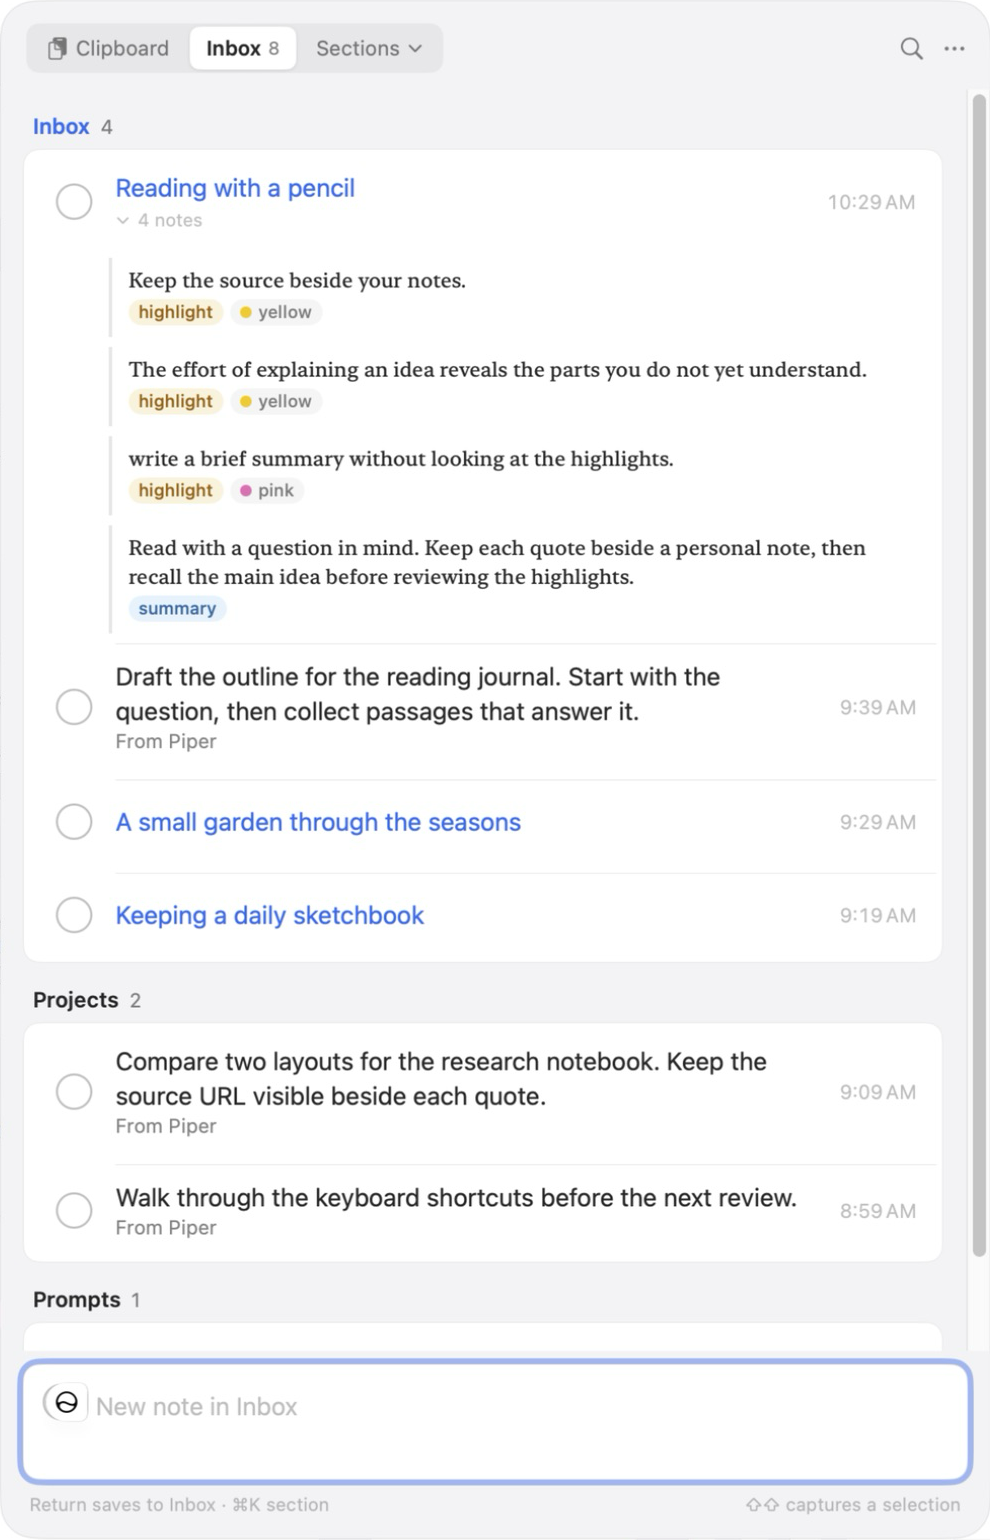
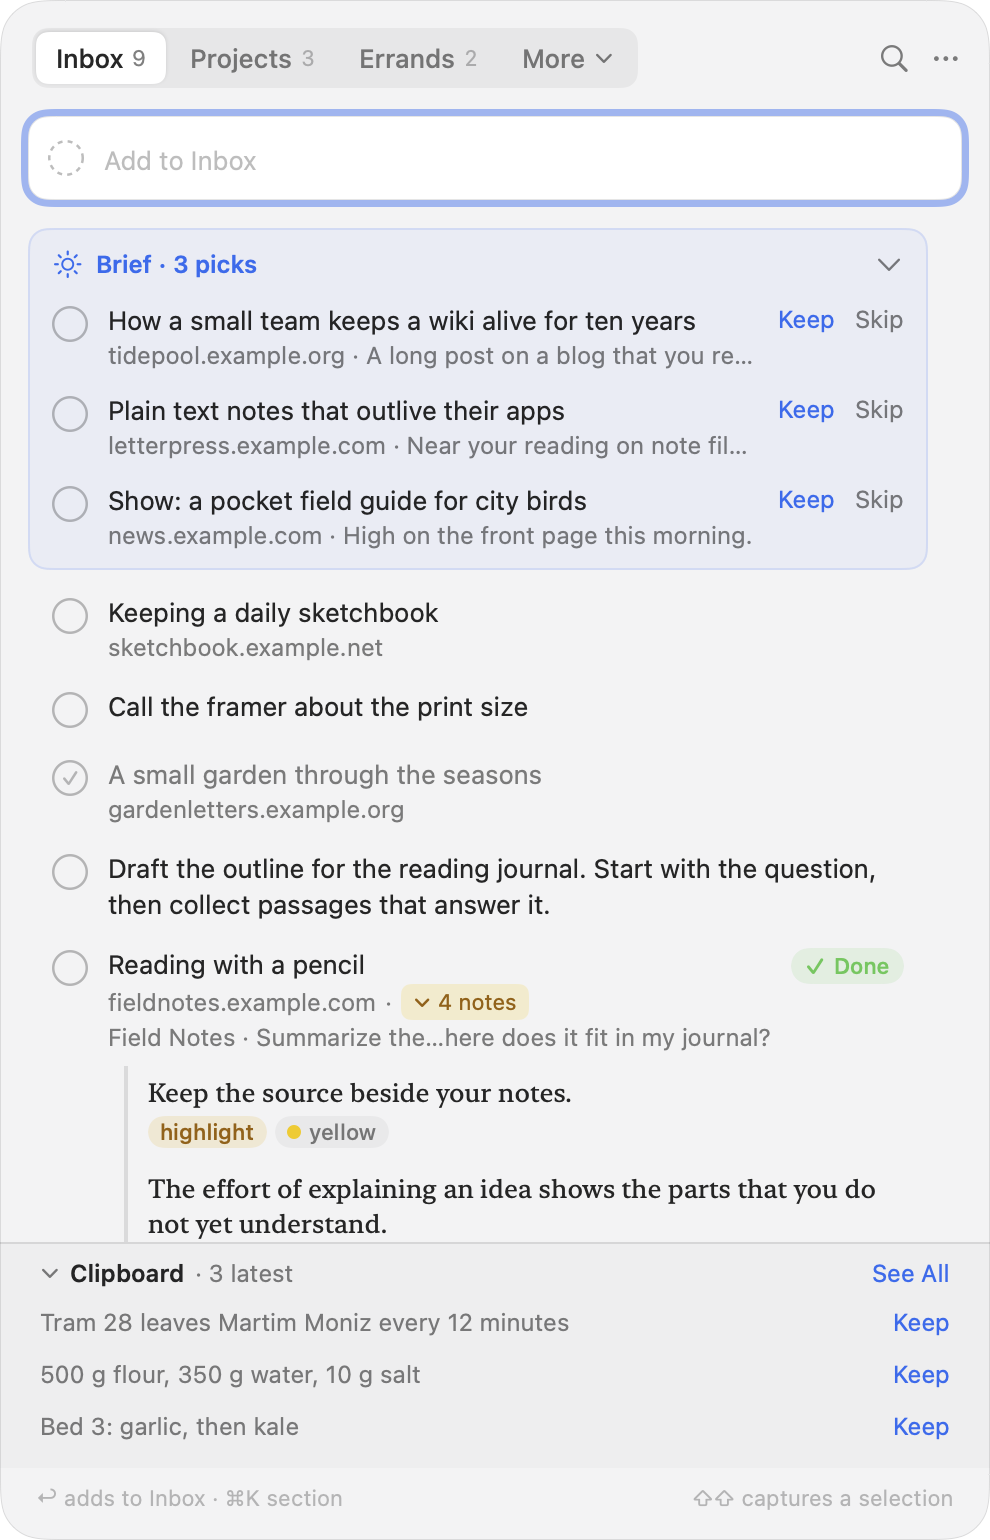
Refresh the README screenshots with fictional data
The screenshots show the Field Notes folder tree with file extensions,
the brief picks and quiet rows of Inbox, the Reader tab with a figure
and highlights, and a session card with the link of the article as
context. The README describes these features.

diff --git a/README.md b/README.md
@@ -48,7 +48,7 @@ The app that you build runs on macOS 14 or later.
 3. Copy text in another app. Click its card in the panel to save it to Inbox.
 4. Press Command-2 to open the main window on `~/Desktop/Wiki`.
 
-To choose another folder, use the folder menu in the Wiki toolbar. To capture a selection with Shift pressed twice, allow Accessibility access first. See [Install Piper](docs/guides/install.md).
+To add another folder, select Add Folder in the + menu of the main window toolbar. To capture a selection with Shift pressed twice, allow Accessibility access first. See [Install Piper](docs/guides/install.md).
 
 ## Windows
 
@@ -63,15 +63,17 @@ The capture panel and the main window take turns on screen. Command-1 shows the 
 
 Both windows use the system font and colors, with one blue accent. Both follow the system appearance.
 
-![The Piper main window with an architecture note about pi-go open in the Architecture folder](docs/images/main-window.png)
+The sidebar of the main window shows Inbox, the clipboard history, and your folders. A folder opens as a tree, and each file shows its extension. Inbox lists your captures, with the picks of the [daily brief](docs/guides/brief.md) at the top.
 
-<img src="docs/images/capture-panel.png" alt="The Piper capture panel with fictional notes, article links, and highlights" width="360">
+![The Piper main window with a reading journal open from a fictional Field Notes folder](docs/images/main-window.png)
+
+<img src="docs/images/capture-panel.png" alt="The Piper capture panel with brief picks, fictional notes, article links, highlights, and clipboard texts" width="360">
 
 ## Highlights And Notes
 
-The Reader tab keeps highlights beside your notes. The Notes tab collects the article summary, highlights, and personal notes.
+The Reader tab shows the text of an article with its images, videos, code blocks, and tables. Highlights show in the text, and your notes show beside them. The Notes tab collects the summary, the highlights, and the notes of the article. Piper opens each site in the tab that you chose last for it.
 
-![Close-up of colored highlights and personal notes beside a fictional article](docs/images/reader-highlights.png)
+![Close-up of the Reader tab with a figure, colored highlights, and a note beside a fictional article](docs/images/reader-highlights.png)
 
 ![Close-up of the Notes tab with a summary, highlighted quotes, and personal notes](docs/images/article-notes.png)
 
@@ -79,11 +81,11 @@ See [Highlight and ask in the Reader tab](docs/guides/browse.md#highlight-and-as
 
 ## Claude Sessions
 
-Piper can send notes to Claude Code in a selected folder. Sessions show tool activity, permission requests, and questions inside the main window. Claude Code requires a separate installation and authentication. Text that you send to Claude leaves local storage for processing through Claude Code.
+Piper talks to Claude Code in a session card beside the open file or capture. The next message takes the file or the link on the screen as context, and `@` adds other files and captures. The card shows tool activity, permission requests, and questions. Claude Code requires a separate installation and authentication. Text that you send to Claude leaves local storage for processing through Claude Code.
 
 See [Work with agents](docs/guides/claude.md) for setup, ACP agents, and permission controls.
 
-![A fictional Claude Code conversation about a research notebook outline](docs/images/claude-session.png)
+![A fictional Claude Code session about an article, with the link of the article attached as context](docs/images/claude-session.png)
 
 ## Documentation
 
